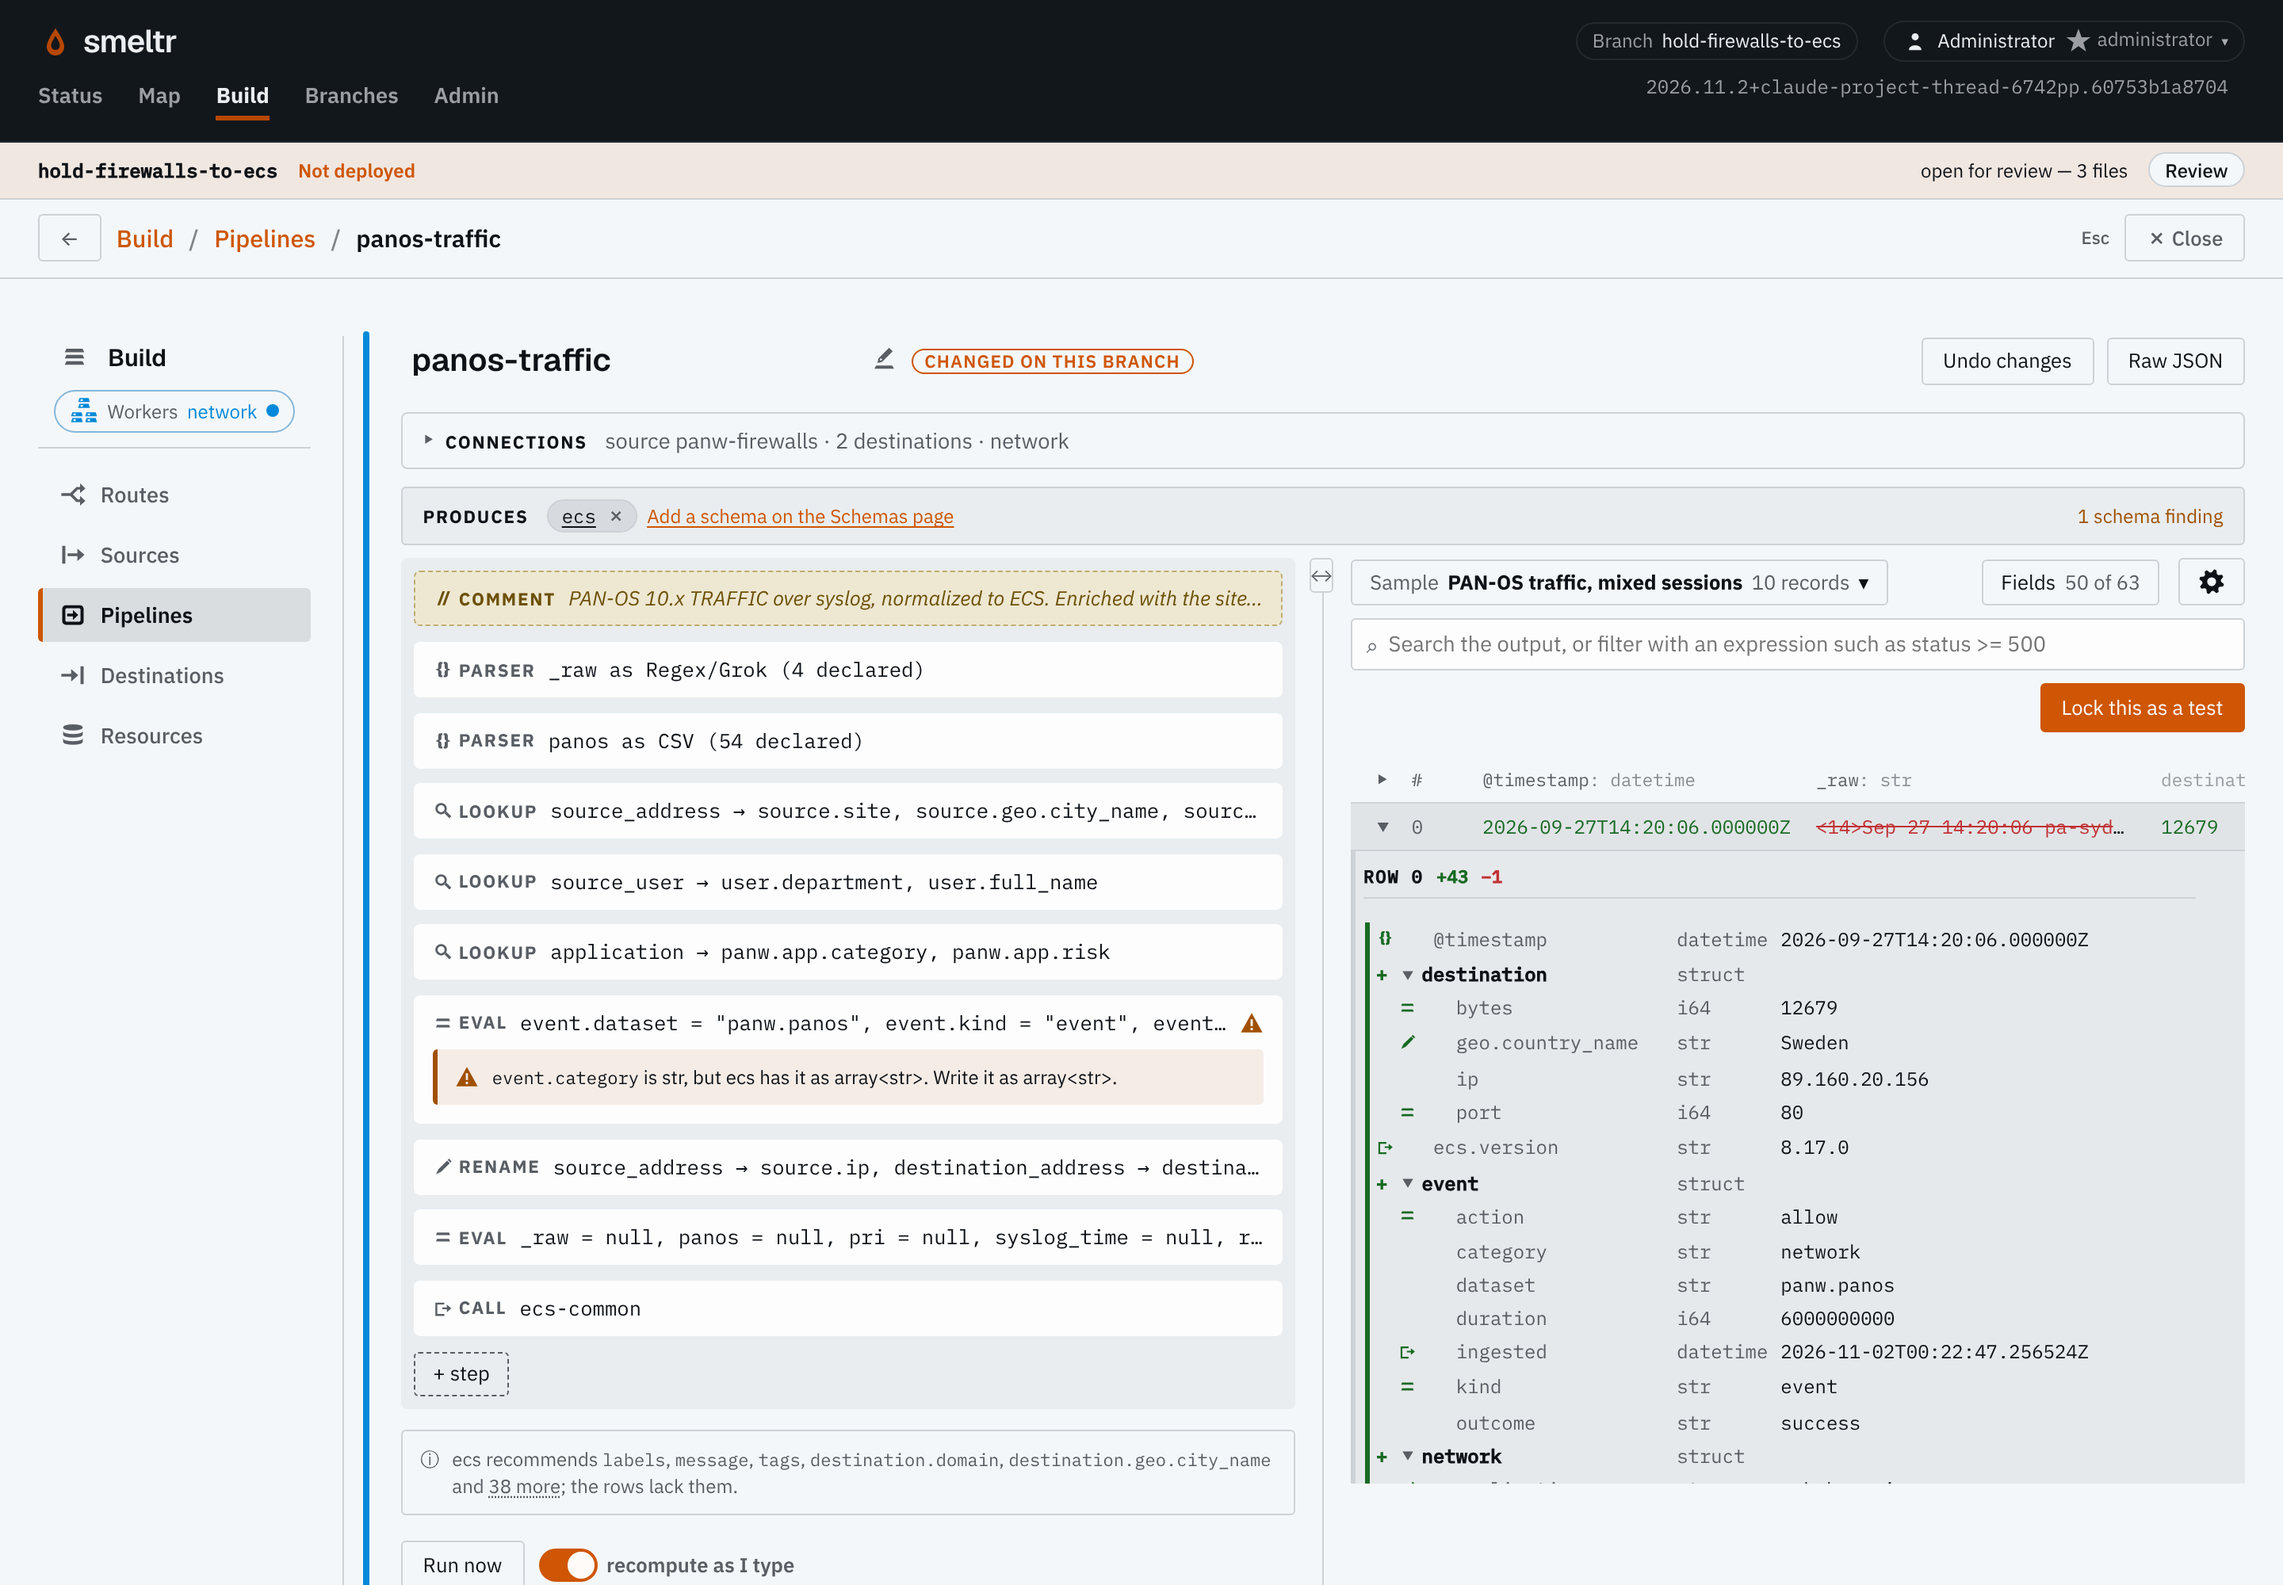
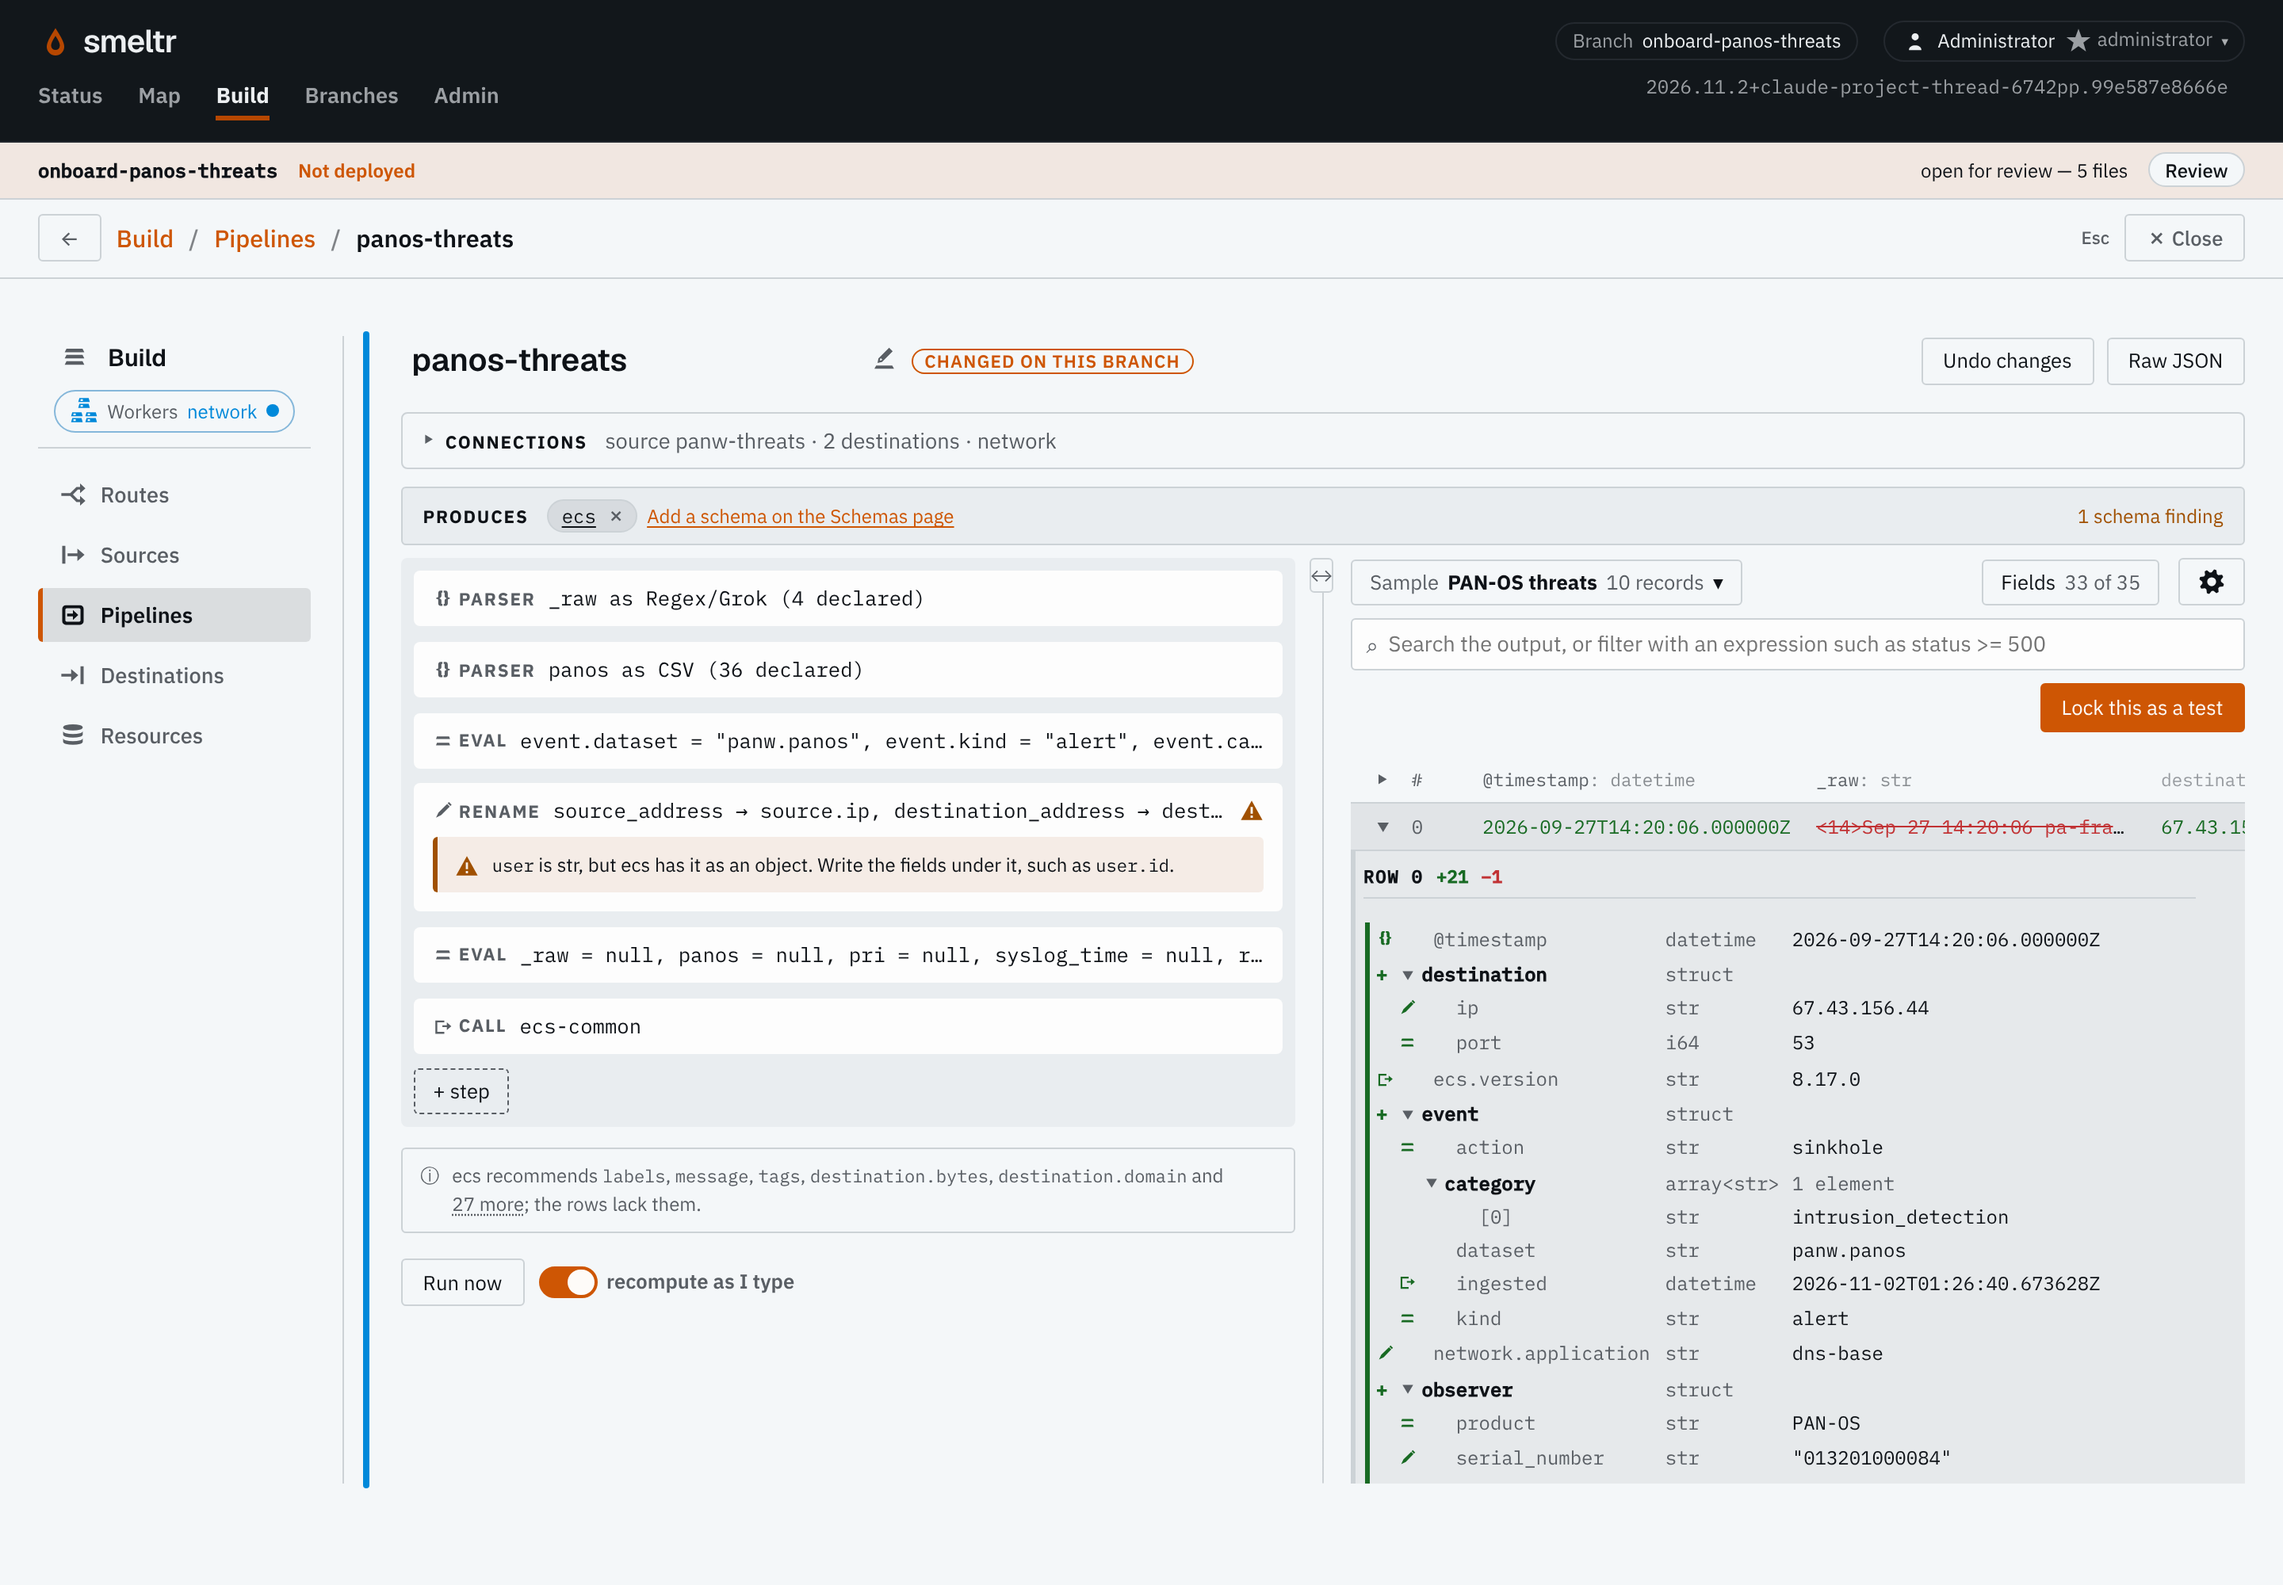
Website: One schema's story is PAN-OS threats writing user as text, where ECS has an object
The demo fleet stages an open change that sends PAN-OS threats to
logs-network as ECS, with a locked test, in place of holding the
firewall pipelines to ECS.

Claude-Session: https://claude.ai/code/session_016X7h2TPgbyNWzqW6uCtHT5

diff --git a/website/src/routes/one-schema/+page.svelte b/website/src/routes/one-schema/+page.svelte
@@ -54,9 +54,9 @@
     <ProductScreenshot
       source="schema-findings-editor"
       height={2000}
-      crop={{ x: 490, y: 420, width: 2350, height: 1340 }}
-      alt="The panos-traffic pipeline produces ecs. Its eval step writes event.category as str, where ECS has array<str>."
-      caption="The PAN-OS pipeline writes event.category as text, where ECS has a list."
+      crop={{ x: 490, y: 420, width: 2350, height: 1000 }}
+      alt="The panos-threats pipeline produces ecs. Its rename step writes user as str, where ECS has an object with fields such as user.id."
+      caption="The PAN-OS threats pipeline writes user as text, where ECS has an object."
     />
     <p>Review counts the findings beside Approve &amp; deploy, before the change runs.</p>
     <ProductScreenshot
@@ -64,8 +64,8 @@
       width={2400}
       height={1400}
       crop={{ x: 0, y: 1300, width: 2400, height: 100 }}
-      alt="A change's review bar: 2 of 2 tests passing, 3 schema findings, and Approve & deploy."
-      caption="The change holds both firewall pipelines to ECS: 3 findings in all."
+      alt="A change's review bar: 1 of 1 test passing, 1 schema finding, and Approve & deploy."
+      caption="The change that sends PAN-OS threats to ECS has 1 schema finding."
     />
     <p><a href="/how-it-works">How it works →</a></p>
   </section>

diff --git a/tools/screenshots/bundle.py b/tools/screenshots/bundle.py
@@ -191,6 +191,55 @@ PANOS = {
     ],
 }
 
+# -- network: PAN-OS threats ------------------------------------------------------------------
+
+# THREAT shares TRAFFIC's columns up to the action; what the profile caught follows it.
+PANOS_THREAT_HEADERS = PANOS_HEADERS[:PANOS_HEADERS.index("action") + 1] + [
+    "misc", "threat", "threat_category", "severity", "direction",
+]
+PANOS_THREAT_KEEP = {
+    "serial", "type", "subtype", "source_address", "destination_address", "rule_name", "source_user", "application",
+    "source_port", "destination_port", "action", "threat", "threat_category", "severity",
+}
+
+# The pipeline the One schema page shows: the threats go to ECS beside the traffic, and its author renames the
+# source user to `user`, where ECS has an object.
+PANOS_THREAT = {
+    "id": "panos-threats", "name": "panos-threats",
+    "steps": [
+        {"type": "parser", "id": "syslog", "input": "_raw",
+         "kind": {"type": "grok", "patterns": ["<%{INT:pri}>%{SYSLOGTIMESTAMP:syslog_time} %{HOSTNAME:relay} %{GREEDYDATA:panos}"]},
+         "declared": [{"name": n, "type": "str"} for n in ["pri", "syslog_time", "relay", "panos"]]},
+        {"type": "parser", "id": "fields", "input": "panos", "kind": {"type": "csv", "delimiter": ","},
+         "declared": [{"name": "@timestamp", "type": "datetime"} if h == "receive_time" else
+                      {"name": h, "type": "i64" if h in PANOS_NUMERIC else "str"} if h in PANOS_THREAT_KEEP else
+                      {"name": h, "type": "skip"} for h in PANOS_THREAT_HEADERS]},
+        {"type": "eval", "id": "derive", "assignments": ev([
+            ("event.dataset", '"panw.panos"'),
+            ("event.kind", '"alert"'),
+            ("event.category", '["intrusion_detection"]'),
+            ("event.action", "action"),
+            ("source.port", "source_port"),
+            ("destination.port", "destination_port"),
+            ("observer.vendor", '"Palo Alto Networks"'),
+            ("observer.product", '"PAN-OS"'),
+        ])},
+        {"type": "rename", "id": "to-ecs", "pairs": [{"from": f, "to": t} for f, t in [
+            ("source_address", "source.ip"), ("destination_address", "destination.ip"), ("source_user", "user"),
+            ("application", "network.application"), ("rule_name", "rule.name"), ("serial", "observer.serial_number"),
+            ("threat", "panw.threat.name"), ("threat_category", "panw.threat.category"),
+            ("severity", "panw.threat.severity"), ("subtype", "panw.subtype"),
+        ]]},
+        {"type": "eval", "id": "prune", "assignments": ev([(n, "null") for n in [
+            "_raw", "panos", "pri", "syslog_time", "relay", "type", "action", "source_port", "destination_port",
+        ]])},
+        {"type": "call", "id": "common", "pipeline": "ecs-common"},
+    ],
+}
+
+THREAT_ROUTE = {"id": "panos-threats", "source": "panw-threats", "condition": None, "pipeline": "panos-threats",
+                "deliver": [{"to": ["es-network"]}]}
+
 # -- network: PAN-OS trimmed for the SIEM ------------------------------------------------------------
 
 # The pipeline the Cut SIEM costs page shows: the same line, with the columns no search uses left empty, and the

diff --git a/tools/screenshots/stage.py b/tools/screenshots/stage.py
@@ -456,16 +456,18 @@ def open_change():
                   "the alerts topic. The PAN-OS test is re-locked with the two new fields.")
 
 
-def ecs():
-    log("open change: hold the firewalls to ECS")
+def threats():
+    log("open change: PAN-OS threats to ECS")
     c = as_("priya")
-    b = "hold-firewalls-to-ecs"
+    b = "onboard-panos-threats"
     schema = c.ok(c.call("POST", "/api/preview/schema-read", {"id": "ecs", "format": "ecs", "builtIn": True}))["schema"]
     c.put("schemas", [schema], b, "network")
-    for p in (bundle.PANOS, bundle.FORTIGATE):
-        c.put_pipeline({**p, "produces": ["ecs"]}, b, "network")
-    c.open_change(b, "Hold both firewall pipelines to ECS",
-                  "Both firewalls' rows go to logs-network, where the SOC searches them by ECS field.")
+    c.put_pipeline({**bundle.PANOS_THREAT, "produces": ["ecs"]}, b, "network")
+    c.put_sample(next(s for s in bundle.waiting()["network"] if s["id"] == "panos-threat-sample"), b, "network")
+    c.put("routes", bundle.NETWORK_ROUTES + bundle.SIEM_ROUTES + [bundle.THREAT_ROUTE], b, "network")
+    lock_tests(c, b, "network", [("panos-threats maps threats to ECS", "panos-threats", "panos-threat-sample", 10)])
+    c.open_change(b, "Send PAN-OS threats to logs-network as ECS",
+                  "Threats land beside the traffic, so the SOC finds both with one search.")
 
 
 def waiting():
@@ -525,7 +527,7 @@ def main():
     rotate()
     pause(1)
     # Before the App-ID change, which How it works shows atop Branches.
-    ecs()
+    threats()
     open_change()
     draft()
     waiting()
